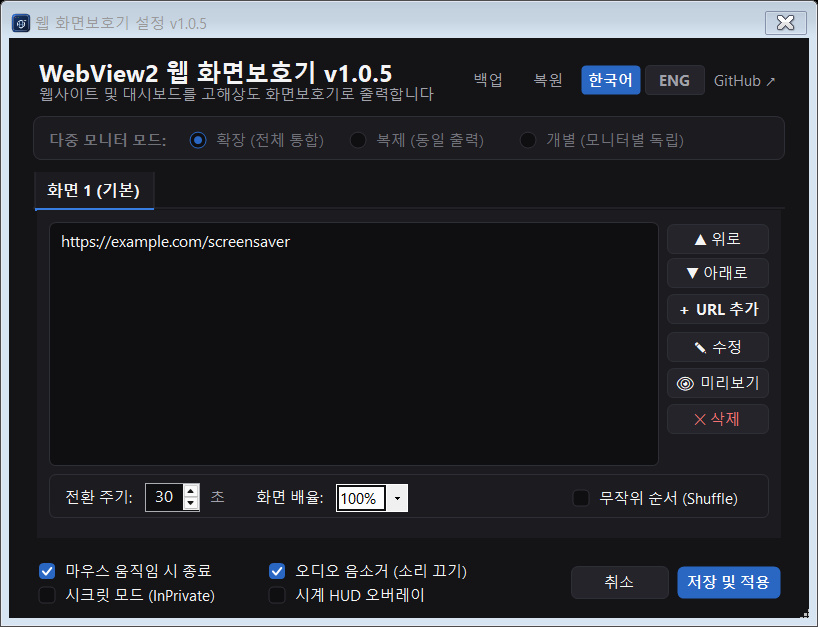
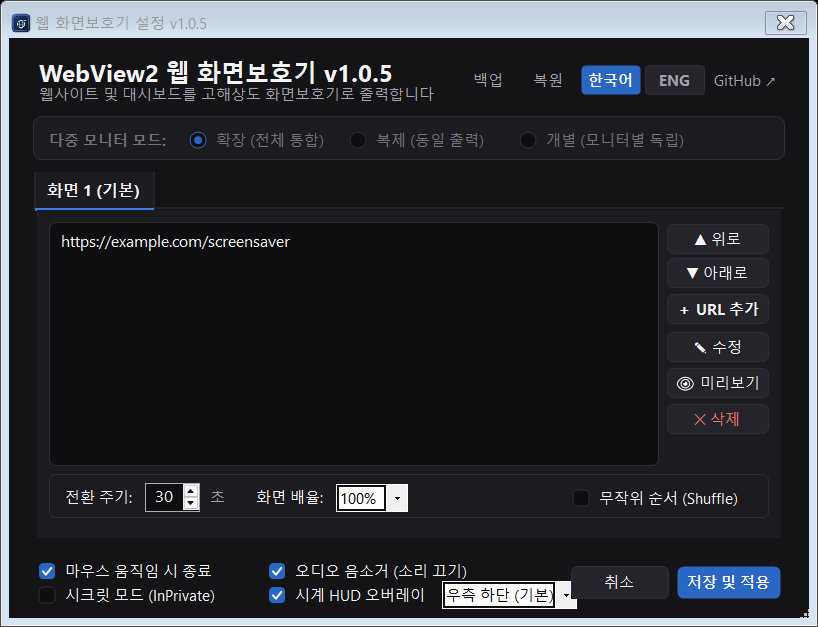
feat: Add selectable corner position for clock HUD overlay

Changed region(s): [[0.5196, 0.9091, 0.7029, 0.9697], [0.3056, 0.9394, 0.3667, 0.9697]]

diff --git a/PreferencesForm.cs b/PreferencesForm.cs
@@ -26,6 +26,12 @@ namespace Web_Page_Screensaver
             screenTabControl.TabPages[0].Text = "Main Display";
             screenUserControls = new List<PrefsByScreenUserControl>() { prefsByScreenUserControl1 };
             LoadValuesForTab(0);
+
+            // 시계 HUD 오버레이 체크 여부에 따라 위치 콤보박스 활성화/비활성화 연동
+            cbClockOverlay.CheckedChanged += (s, e) =>
+            {
+                cmbClockPosition.Enabled = cbClockOverlay.Checked;
+            };
         }
 
         private void PreferencesForm_Load(object sender, EventArgs e)
@@ -34,6 +40,7 @@ namespace Web_Page_Screensaver
             cbMuteAudio.Checked = prefsManager.MuteAudio;
             cbInPrivate.Checked = prefsManager.InPrivate;
             cbClockOverlay.Checked = prefsManager.ShowClockOverlay;
+            cmbClockPosition.Enabled = cbClockOverlay.Checked;
 
             // 1. 윈도우 시스템 테마(다크/라이트) 감지 및 실시간 변경 이벤트 등록
             RegisterThemeEvents();
@@ -158,6 +165,8 @@ namespace Web_Page_Screensaver
             cbMuteAudio.ForeColor = colors.TextPrimary;
             cbInPrivate.ForeColor = colors.TextPrimary;
             cbClockOverlay.ForeColor = colors.TextPrimary;
+            cmbClockPosition.BackColor = colors.InputBackground;
+            cmbClockPosition.ForeColor = colors.TextPrimary;
 
             btnExport.Invalidate();
             btnImport.Invalidate();
@@ -206,6 +215,37 @@ namespace Web_Page_Screensaver
             cbInPrivate.Text = isKo ? "시크릿 모드 (InPrivate)" : "InPrivate Browsing";
             cbClockOverlay.Text = isKo ? "시계 HUD 오버레이" : "Clock HUD Overlay";
 
+            // 시계 HUD 모서리 위치 선택 콤보박스 항목 갱신 (선택 상태 보존)
+            int selectedClockIndex = cmbClockPosition.SelectedIndex >= 0
+                ? cmbClockPosition.SelectedIndex
+                : (int)prefsManager.ClockPositionPref;
+
+            cmbClockPosition.Items.Clear();
+            if (isKo)
+            {
+                cmbClockPosition.Items.AddRange(new object[] {
+                    "우측 하단 (기본)",
+                    "좌측 하단",
+                    "우측 상단",
+                    "좌측 상단"
+                });
+            }
+            else
+            {
+                cmbClockPosition.Items.AddRange(new object[] {
+                    "Bottom-Right (Default)",
+                    "Bottom-Left",
+                    "Top-Right",
+                    "Top-Left"
+                });
+            }
+            cmbClockPosition.SelectedIndex = (selectedClockIndex >= 0 && selectedClockIndex < cmbClockPosition.Items.Count)
+                ? selectedClockIndex
+                : 0;
+
+            // 언어 텍스트 길이에 맞춰 콤보박스 위치 자동 정렬
+            cmbClockPosition.Location = new Point(cbClockOverlay.Right + 8, 29);
+
             cancelButton.Text = isKo ? "취소" : "Cancel";
             okButton.Text = isKo ? "저장 및 적용" : "Save & Apply";
 
@@ -242,6 +282,9 @@ namespace Web_Page_Screensaver
                 prefsByScreenUserControl1.lvUrls.Items.Clear();
                 prefsByScreenUserControl1.lvUrls.Items.Add(exampleUrl);
             }
+            cbClockOverlay.Checked = true;
+            cmbClockPosition.Enabled = true;
+            cmbClockPosition.SelectedIndex = 0;
             btnUpdateNotice.Visible = false;
             ApplyLanguage("ko");
         }
@@ -401,6 +444,10 @@ namespace Web_Page_Screensaver
                 prefsManager.MuteAudio = cbMuteAudio.Checked;
                 prefsManager.InPrivate = cbInPrivate.Checked;
                 prefsManager.ShowClockOverlay = cbClockOverlay.Checked;
+                if (cmbClockPosition.SelectedIndex >= 0)
+                {
+                    prefsManager.ClockPositionPref = (PreferencesManager.ClockPosition)cmbClockPosition.SelectedIndex;
+                }
                 prefsManager.Language = currentLanguage;
 
                 for (var i = 0; i < screenUserControls.Count; i++)
@@ -468,6 +515,8 @@ namespace Web_Page_Screensaver
                 cbMuteAudio.Checked = prefsManager.MuteAudio;
                 cbInPrivate.Checked = prefsManager.InPrivate;
                 cbClockOverlay.Checked = prefsManager.ShowClockOverlay;
+                cmbClockPosition.Enabled = cbClockOverlay.Checked;
+                cmbClockPosition.SelectedIndex = (int)prefsManager.ClockPositionPref;
                 currentLanguage = prefsManager.Language ?? "ko";
                 SetMultiScreenButtonFromMode();
                 ArrangeScreenTabs();

diff --git a/PreferencesForm.Designer.cs b/PreferencesForm.Designer.cs
@@ -56,6 +56,7 @@ namespace Web_Page_Screensaver
             this.cbMuteAudio = new Web_Page_Screensaver.ModernCheckBox();
             this.cbInPrivate = new Web_Page_Screensaver.ModernCheckBox();
             this.cbClockOverlay = new Web_Page_Screensaver.ModernCheckBox();
+            this.cmbClockPosition = new System.Windows.Forms.ComboBox();
             this.cancelButton = new Web_Page_Screensaver.ModernButton();
             this.okButton = new Web_Page_Screensaver.ModernButton();
             this.screenModeTooltip = new System.Windows.Forms.ToolTip(this.components);
@@ -349,6 +350,7 @@ namespace Web_Page_Screensaver
             this.bottomPanel.Controls.Add(this.cbMuteAudio);
             this.bottomPanel.Controls.Add(this.cbInPrivate);
             this.bottomPanel.Controls.Add(this.cbClockOverlay);
+            this.bottomPanel.Controls.Add(this.cmbClockPosition);
             this.bottomPanel.Controls.Add(this.cancelButton);
             this.bottomPanel.Controls.Add(this.okButton);
             this.bottomPanel.Location = new System.Drawing.Point(24, 514);
@@ -407,10 +409,21 @@ namespace Web_Page_Screensaver
             this.cbClockOverlay.ForeColor = System.Drawing.Color.FromArgb(((int)(((byte)(244)))), ((int)(((byte)(244)))), ((int)(((byte)(245)))));
             this.cbClockOverlay.Location = new System.Drawing.Point(234, 31);
             this.cbClockOverlay.Name = "cbClockOverlay";
-            this.cbClockOverlay.Size = new System.Drawing.Size(180, 19);
+            this.cbClockOverlay.Size = new System.Drawing.Size(130, 19);
             this.cbClockOverlay.TabIndex = 3;
             this.cbClockOverlay.Text = "Clock HUD Overlay";
             this.cbClockOverlay.UseVisualStyleBackColor = true;
+            // 
+            // cmbClockPosition
+            // 
+            this.cmbClockPosition.DropDownStyle = System.Windows.Forms.ComboBoxStyle.DropDownList;
+            this.cmbClockPosition.FlatStyle = System.Windows.Forms.FlatStyle.Flat;
+            this.cmbClockPosition.Font = new System.Drawing.Font("Segoe UI", 8.8F);
+            this.cmbClockPosition.FormattingEnabled = true;
+            this.cmbClockPosition.Location = new System.Drawing.Point(372, 29);
+            this.cmbClockPosition.Name = "cmbClockPosition";
+            this.cmbClockPosition.Size = new System.Drawing.Size(135, 23);
+            this.cmbClockPosition.TabIndex = 4;
             // 
             // cancelButton
             // 
@@ -426,7 +439,7 @@ namespace Web_Page_Screensaver
             this.cancelButton.Name = "cancelButton";
             this.cancelButton.Size = new System.Drawing.Size(98, 33);
             this.cancelButton.Style = Web_Page_Screensaver.ModernButtonStyle.Secondary;
-            this.cancelButton.TabIndex = 4;
+            this.cancelButton.TabIndex = 5;
             this.cancelButton.Text = "Cancel";
             this.cancelButton.UseVisualStyleBackColor = false;
             this.cancelButton.Click += new System.EventHandler(this.cancelButton_Click);
@@ -445,7 +458,7 @@ namespace Web_Page_Screensaver
             this.okButton.Name = "okButton";
             this.okButton.Size = new System.Drawing.Size(104, 33);
             this.okButton.Style = Web_Page_Screensaver.ModernButtonStyle.Primary;
-            this.okButton.TabIndex = 5;
+            this.okButton.TabIndex = 6;
             this.okButton.Text = "Save & Apply";
             this.okButton.UseVisualStyleBackColor = false;
             this.okButton.Click += new System.EventHandler(this.okButton_Click);
@@ -510,6 +523,7 @@ namespace Web_Page_Screensaver
         public ModernCheckBox cbMuteAudio;
         public ModernCheckBox cbInPrivate;
         public ModernCheckBox cbClockOverlay;
+        public System.Windows.Forms.ComboBox cmbClockPosition;
         private ModernButton cancelButton;
         private ModernButton okButton;
         private System.Windows.Forms.ToolTip screenModeTooltip;

diff --git a/FallbackHtmlProvider.cs b/FallbackHtmlProvider.cs
@@ -137,20 +137,45 @@ namespace Web_Page_Screensaver
         }
 
         /// <summary>
-        /// 웹페이지 우측 하단에 반투명 글래스모피즘 디지털 시계/날짜 위젯을 띄우는 주입 스크립트를 반환합니다.
+        /// 웹페이지 모서리에 반투명 글래스모피즘 디지털 시계/날짜 위젯을 띄우는 주입 스크립트를 반환합니다.
+        /// 사용자가 선택한 모서리 위치(상하좌우 4모서리)에 맞춰 배치되며,
         /// pointer-events: none 으로 마우스 조작을 일체 방해하지 않습니다.
         /// </summary>
-        public static string GetClockOverlayScript()
+        /// <param name="position">시계가 표시될 모서리 위치 (기본: BottomRight)</param>
+        public static string GetClockOverlayScript(PreferencesManager.ClockPosition position = PreferencesManager.ClockPosition.BottomRight)
         {
-            return @"
+            string posCss;
+            string textAlign;
+
+            switch (position)
+            {
+                case PreferencesManager.ClockPosition.TopLeft:
+                    posCss = "host.style.top = '24px'; host.style.left = '24px';";
+                    textAlign = "left";
+                    break;
+                case PreferencesManager.ClockPosition.TopRight:
+                    posCss = "host.style.top = '24px'; host.style.right = '24px';";
+                    textAlign = "right";
+                    break;
+                case PreferencesManager.ClockPosition.BottomLeft:
+                    posCss = "host.style.bottom = '24px'; host.style.left = '24px';";
+                    textAlign = "left";
+                    break;
+                case PreferencesManager.ClockPosition.BottomRight:
+                default:
+                    posCss = "host.style.bottom = '24px'; host.style.right = '24px';";
+                    textAlign = "right";
+                    break;
+            }
+
+            string scriptTemplate = @"
 (function() {
     if (document.getElementById('webview2-screensaver-hud-clock')) return;
 
     const host = document.createElement('div');
     host.id = 'webview2-screensaver-hud-clock';
     host.style.position = 'fixed';
-    host.style.right = '24px';
-    host.style.bottom = '24px';
+    __POS_CSS__
     host.style.zIndex = '2147483647';
     host.style.pointerEvents = 'none';
     host.style.userSelect = 'none';
@@ -165,7 +190,7 @@ namespace Web_Page_Screensaver
     box.style.padding = '10px 18px';
     box.style.color = '#f4f4f5';
     box.style.boxShadow = '0 10px 30px rgba(0,0,0,0.45)';
-    box.style.textAlign = 'right';
+    box.style.textAlign = '__TEXT_ALIGN__';
 
     const timeEl = document.createElement('div');
     timeEl.style.fontSize = '26px';
@@ -197,6 +222,9 @@ namespace Web_Page_Screensaver
     setInterval(update, 1000);
 })();
 ";
+            return scriptTemplate
+                .Replace("__POS_CSS__", posCss)
+                .Replace("__TEXT_ALIGN__", textAlign);
         }
     }
 }

diff --git a/PreferencesManager.cs b/PreferencesManager.cs
@@ -19,6 +19,7 @@ namespace Web_Page_Screensaver
         private const string MUTE_AUDIO_PREF = "MuteAudio";
         private const string INPRIVATE_PREF = "InPrivate";
         private const string CLOCK_OVERLAY_PREF = "ShowClockOverlay";
+        private const string CLOCK_POSITION_PREF = "ClockPosition";
         private const string ZOOM_FACTOR_PREF = "ZoomFactor";
 
         private const string SCREEN_SPECIFIC_PREF_NAME_FORMATSTRING = "{0}Screen{1}";
@@ -33,12 +34,26 @@ namespace Web_Page_Screensaver
         private const string MUTE_AUDIO_PREF_DEFAULT = "True";
         private const string INPRIVATE_PREF_DEFAULT = "False";
         private const string CLOCK_OVERLAY_PREF_DEFAULT = "False";
+        private const string CLOCK_POSITION_PREF_DEFAULT = "BottomRight";
         private const string ZOOM_FACTOR_PREF_DEFAULT = "100";
 
         public string Language { get; set; }
         public bool MuteAudio { get; set; }
         public bool InPrivate { get; set; }
         public bool ShowClockOverlay { get; set; }
+
+        /// <summary>
+        /// 시계 HUD 오버레이가 표시될 모서리 위치
+        /// </summary>
+        public enum ClockPosition
+        {
+            BottomRight,
+            BottomLeft,
+            TopRight,
+            TopLeft
+        }
+
+        public ClockPosition ClockPositionPref { get; set; } = ClockPosition.BottomRight;
 
         private List<int> zoomFactorsByScreen;
 
@@ -288,6 +303,7 @@ namespace Web_Page_Screensaver
             reg.SetValue(MUTE_AUDIO_PREF, MuteAudio);
             reg.SetValue(INPRIVATE_PREF, InPrivate);
             reg.SetValue(CLOCK_OVERLAY_PREF, ShowClockOverlay);
+            reg.SetValue(CLOCK_POSITION_PREF, ClockPositionPref.ToString());
 
             SaveUrlsAllScreens();
             SavePrefAllScreens(INTERVAL_PREF, rotationIntervalsByScreen);
@@ -304,6 +320,16 @@ namespace Web_Page_Screensaver
             MuteAudio = bool.Parse((string)reg.GetValue(MUTE_AUDIO_PREF, MUTE_AUDIO_PREF_DEFAULT));
             InPrivate = bool.Parse((string)reg.GetValue(INPRIVATE_PREF, INPRIVATE_PREF_DEFAULT));
             ShowClockOverlay = bool.Parse((string)reg.GetValue(CLOCK_OVERLAY_PREF, CLOCK_OVERLAY_PREF_DEFAULT));
+
+            string clockPosStr = (string)reg.GetValue(CLOCK_POSITION_PREF, CLOCK_POSITION_PREF_DEFAULT);
+            if (Enum.TryParse(clockPosStr, out ClockPosition cp))
+            {
+                ClockPositionPref = cp;
+            }
+            else
+            {
+                ClockPositionPref = ClockPosition.BottomRight;
+            }
 
             urlsByScreen = LoadUrlsAllScreens();
             rotationIntervalsByScreen = LoadPrefAllScreens<int>(INTERVAL_PREF, INTERVAL_PREF_DEFAULT, INTERVAL_PREF_DEFAULT);

diff --git a/ConfigExportImport.cs b/ConfigExportImport.cs
@@ -19,6 +19,7 @@ namespace Web_Page_Screensaver
         public bool MuteAudio { get; set; }
         public bool InPrivate { get; set; }
         public bool ShowClockOverlay { get; set; }
+        public string ClockPosition { get; set; } = "BottomRight";
         public List<List<string>> UrlsByScreen { get; set; }
         public List<int> RotationIntervalsByScreen { get; set; }
         public List<bool> RandomizeFlagByScreen { get; set; }
@@ -56,6 +57,7 @@ namespace Web_Page_Screensaver
                             MuteAudio = prefs.MuteAudio,
                             InPrivate = prefs.InPrivate,
                             ShowClockOverlay = prefs.ShowClockOverlay,
+                            ClockPosition = prefs.ClockPositionPref.ToString(),
                             UrlsByScreen = prefs.GetAllUrlsByScreenDirect(),
                             RotationIntervalsByScreen = prefs.GetAllIntervalsDirect(),
                             RandomizeFlagByScreen = prefs.GetAllRandomizeDirect(),
@@ -120,6 +122,14 @@ namespace Web_Page_Screensaver
                         prefs.MuteAudio = dto.MuteAudio;
                         prefs.InPrivate = dto.InPrivate;
                         prefs.ShowClockOverlay = dto.ShowClockOverlay;
+
+                        if (!string.IsNullOrEmpty(dto.ClockPosition))
+                        {
+                            if (Enum.TryParse(dto.ClockPosition, out PreferencesManager.ClockPosition cp))
+                            {
+                                prefs.ClockPositionPref = cp;
+                            }
+                        }
 
                         if (dto.UrlsByScreen != null) prefs.SetAllUrlsByScreenDirect(dto.UrlsByScreen);
                         if (dto.RotationIntervalsByScreen != null) prefs.SetAllIntervalsDirect(dto.RotationIntervalsByScreen);

diff --git a/ScreensaverForm.cs b/ScreensaverForm.cs
@@ -121,10 +121,10 @@ namespace Web_Page_Screensaver
                         int zoomPercent = prefsManager.GetZoomFactorByScreen(screenNum);
                         webView.ZoomFactor = (zoomPercent > 0 ? zoomPercent : 100) / 100.0;
 
-                        // 2. 글래스모피즘 디지털 시계/날짜 HUD 오버레이 주입
+                        // 2. 글래스모피즘 디지털 시계/날짜 HUD 오버레이 주입 (사용자 설정 모서리 반영)
                         if (prefsManager.ShowClockOverlay)
                         {
-                            webView.ExecuteScriptAsync(FallbackHtmlProvider.GetClockOverlayScript());
+                            webView.ExecuteScriptAsync(FallbackHtmlProvider.GetClockOverlayScript(prefsManager.ClockPositionPref));
                         }
                     }
                 };

diff --git a/README.md b/README.md
@@ -7,7 +7,7 @@ A Fork of the old archived project [ZenProjects/Chromium-Web-Page-Screensaver](h
 - **Audio Mute & InPrivate Browsing (v1.0.5):** Silent screensaver with automatic sound muting and privacy protection mode.
 - **Graceful Fallback Clock (v1.0.5):** Elegant built-in neon digital clock when offline or page fails to load.
 - **Live Mini Web Preview (v1.0.5):** Instant in-dialog preview of selected URLs with active zoom and mute settings.
-- **Display Zoom Factor & Clock HUD (v1.0.5):** Scalable rendering (75%~200%) for 4K/QHD and sleek glassmorphism clock HUD overlay.
+- **Display Zoom Factor & Clock HUD (v1.0.5):** Scalable rendering (75%~200%) for 4K/QHD and sleek glassmorphism clock HUD overlay with 4 selectable corner positions.
 - **Config Backup & Restore (v1.0.5):** Single-click JSON export and import for seamless cross-PC setup.
 - **Auto Update Checker (v1.0.5):** Background notification badge when newer GitHub releases are published.
 - **Auto Screenshot Asset Generation (v1.0.5):** Automatic generation of latest theme preview screenshots on build with safe example URLs.
@@ -51,7 +51,7 @@ A Fork of the old archived project [ZenProjects/Chromium-Web-Page-Screensaver](h
 - **오디오 자동 음소거 및 시크릿 모드 (v1.0.5):** 웹페이지 소음 차단(기본 Mute) 및 쿠키/기록을 남기지 않는 안전한 브라우징.
 - **오프라인/오류 시 우아한 모던 시계 폴백 (v1.0.5):** 인터넷 연결이 끊겨도 에러창 대신 세련된 네온 디지털 시계 자동 전환.
 - **실시간 미니 웹 미리보기 (v1.0.5):** 화면보호기를 직접 실행하지 않고도 설정창에서 즉시 렌더링 상태 확인.
-- **화면 배율 조절 & 시계 HUD 오버레이 (v1.0.5):** 4K/QHD 해상도 맞춤 배율(75%~200%) 및 글래스모피즘 디지털 시계 HUD.
+- **화면 배율 조절 & 시계 HUD 오버레이 (v1.0.5):** 4K/QHD 해상도 맞춤 배율(75%~200%) 및 4대 모서리 위치 선택이 가능한 글래스모피즘 시계 HUD.
 - **설정 원클릭 백업/복원 (v1.0.5):** 전체 설정을 JSON 파일로 손쉽게 내보내고 타 PC에 불러오기 지원.
 - **GitHub 최신 버전 자동 감지 (v1.0.5):** 새 릴리즈 출시 시 설정창 상단에 알림 뱃지 자동 표시.
 - **빌드 시 테마 미리보기 자동 생성 (v1.0.5):** 빌드할 때마다 예시 URL이 적용된 최신 테마 스크린샷 자동 생성.

diff --git a/CHANGELOG.md b/CHANGELOG.md
@@ -13,7 +13,7 @@ All notable changes to this project will be documented in this file.
 - **Graceful Fallback Clock**: Automatically displays a sleek neon digital clock when offline or when a webpage fails to load.
 - **Live Web Preview**: Instant preview dialog to test URLs directly from the settings window with active zoom and mute.
 - **Zoom Factor Adjustment**: Custom display scale (75% to 200%) optimized for 4K and QHD monitors.
-- **Clock HUD Overlay**: Optional glassmorphism floating digital clock/date widget on top of any web screensaver.
+- **Clock HUD Overlay & Corner Selection**: Optional glassmorphism floating digital clock/date widget on top of any web screensaver, with selectable position across all 4 screen corners (Bottom-Right, Bottom-Left, Top-Right, Top-Left).
 - **Custom Per-URL Intervals**: Support for individual rotation times (`URL|seconds`).
 - **Config Backup & Restore**: Export and import full configuration in JSON format.
 - **GitHub Update Checker**: Non-intrusive background check for newer releases.
@@ -25,7 +25,7 @@ All notable changes to this project will be documented in this file.
 - **오프라인/에러 시 우아한 모던 시계 폴백**: 인터넷 단절 시 에러창 대신 세련된 네온 디지털 시계 자동 출력.
 - **실시간 미니 웹 미리보기**: 설정창에서 선택한 사이트의 렌더링 상태를 즉시 모달 창으로 확인.
 - **화면 배율 조절 (Zoom Factor)**: 4K 및 QHD 고해상도 환경에 최적화된 화면 배율(75% ~ 200%) 지원.
-- **디지털 시계 HUD 오버레이**: 어떤 웹 화면보호기 위에도 반투명 글래스모피즘 시계/날짜 위젯 표시.
+- **디지털 시계 HUD 오버레이 & 4개 모서리 위치 선택**: 웹 화면보호기 위에 반투명 글래스모피즘 시계/날짜 위젯을 4대 모서리(우측 하단, 좌측 하단, 우측 상단, 좌측 상단) 중 원하는 위치로 지정.
 - **URL별 개별 표시 시간(초) 지정**: 사이트마다 `URL|초` 형식으로 가변 회전 주기 지원.
 - **설정 원클릭 백업/복원 (JSON)**: 전체 설정을 JSON 파일로 손쉽게 내보내고 타 PC에 복원.
 - **GitHub 최신 버전 자동 감지**: 새 릴리즈 출시 시 설정창 상단에 알림 뱃지 자동 표시.
